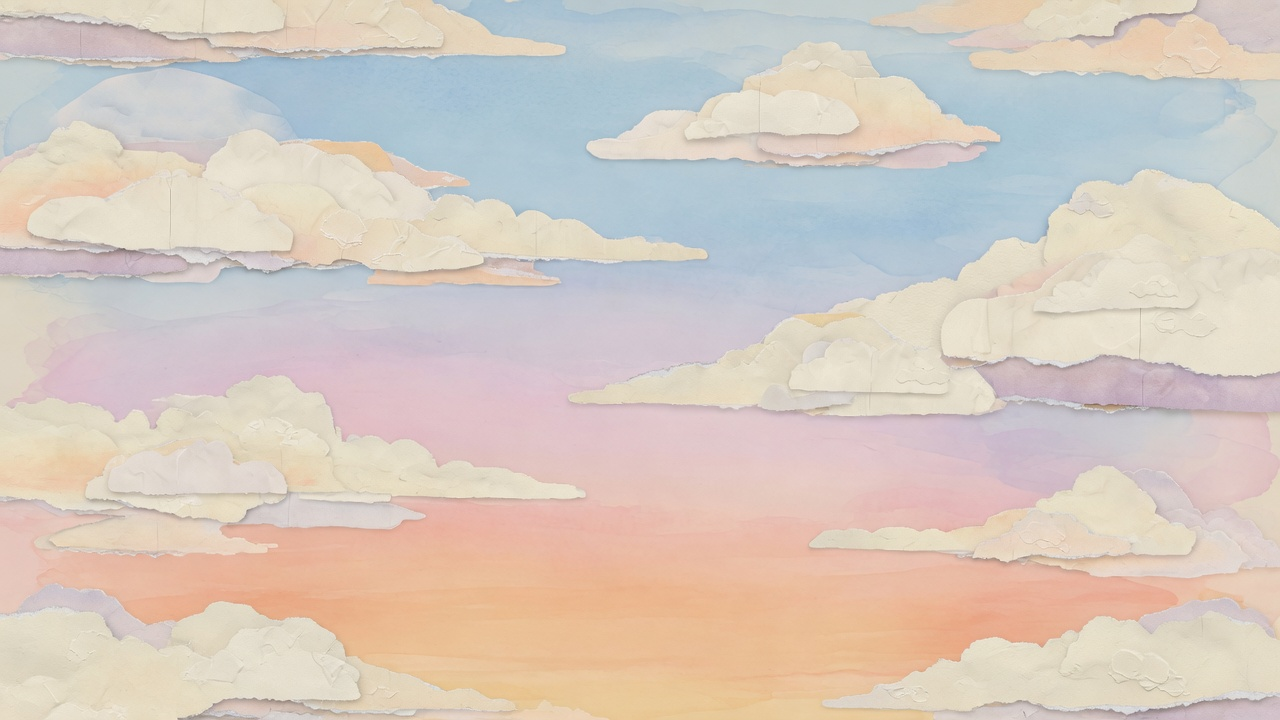
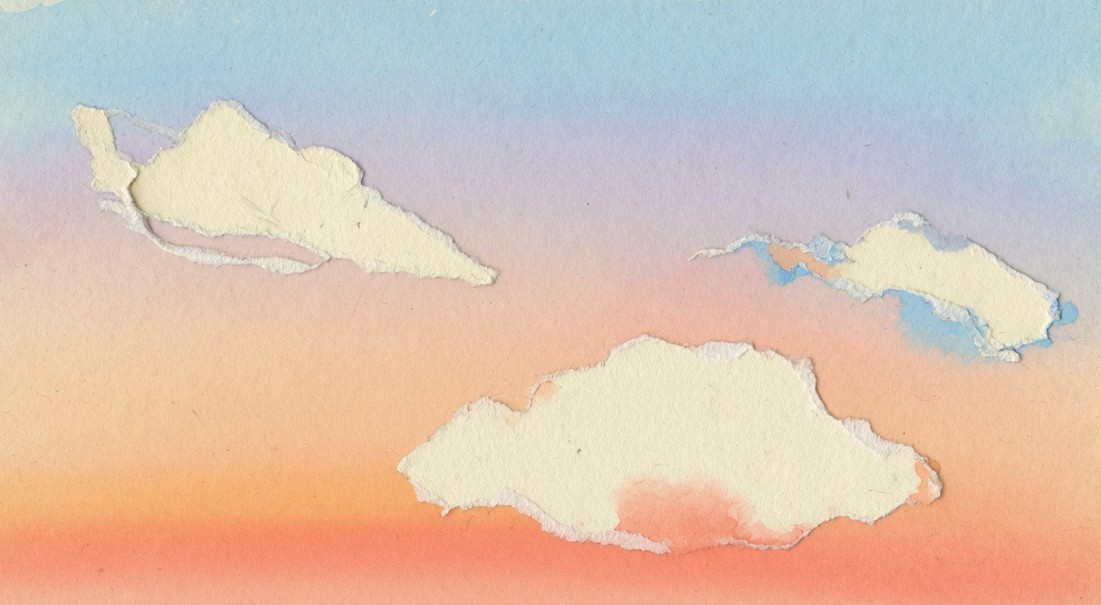
Polish city world, spacing scale, and opening flight flow
New tileable rooftops, facades, and a cropped sunrise sky. Menus and HUD share one spacing scale. The first 90m stays quieter and more spacious so the run can breathe before the city densifies.

diff --git a/src/style.css b/src/style.css
@@ -9,6 +9,17 @@
   --gold: #f0b429;
   --violet: #7357c9;
   --paper-shadow: rgba(61,44,41,.16);
+  --space-1: 4px;
+  --space-2: 8px;
+  --space-3: 12px;
+  --space-4: 16px;
+  --space-5: 20px;
+  --space-6: 24px;
+  --space-7: 32px;
+  --radius-sm: 12px;
+  --radius-md: 16px;
+  --radius-lg: 22px;
+  --radius-xl: 28px;
 }
 
 html, body, #game-root {
@@ -90,8 +101,8 @@ html.a11y-reduced-motion #fever-fx.fever-active { animation: none !important; op
    These are DOM overlays on purpose: the playfield remains a single canvas,
    while crisp, readable state feedback stays independent of camera distance. */
 #flight-route {
-  position: absolute; top: max(118px, calc(env(safe-area-inset-top) + 106px)); left: 50%;
-  transform: translateX(-50%); z-index: 5; width: min(250px, 25vw);
+  position: absolute; top: max(76px, calc(env(safe-area-inset-top) + 64px)); left: 50%;
+  transform: translateX(-50%); z-index: 5; width: min(236px, 28vw);
   padding: 8px 12px 9px; border: 1.5px solid rgba(36,59,83,.16);
   border-radius: 14px; background: rgba(255,250,242,.86);
   box-shadow: 0 8px 22px rgba(36,59,83,.14), 0 1px 0 rgba(255,255,255,.7) inset;
@@ -145,10 +156,10 @@ html.a11y-reduced-motion .flight-route-track span { transition: none; }
 
 /* —— HUD —— */
 #hud {
-  position: absolute; top: max(10px, env(safe-area-inset-top));
-  left: max(10px, env(safe-area-inset-left));
-  right: max(56px, env(safe-area-inset-right));
-  display: flex; gap: 6px; flex-wrap: wrap;
+  position: absolute; top: max(12px, env(safe-area-inset-top));
+  left: max(12px, env(safe-area-inset-left));
+  right: max(60px, env(safe-area-inset-right));
+  display: flex; gap: var(--space-2); flex-wrap: wrap;
   pointer-events: none; z-index: 5;
 }
 .hud-card {
@@ -588,23 +599,23 @@ html.a11y-reduced-motion #tutorial-hint { animation: none !important; }
 .menu-panel { justify-content: safe center; }
 
 .menu-card {
-  width: min(420px, 100%);
-  background: rgba(255,250,242,.84);
-  border: 1.5px solid rgba(255,255,255,.65);
-  border-radius: 28px;
-  padding: 22px 18px 18px;
+  width: min(448px, 100%);
+  background: rgba(255,250,242,.88);
+  border: 1.5px solid rgba(255,255,255,.7);
+  border-radius: var(--radius-xl);
+  padding: var(--space-6) var(--space-5) var(--space-5);
   box-shadow:
     0 24px 60px rgba(61,44,41,.14),
     0 2px 0 rgba(255,255,255,.5) inset;
   backdrop-filter: blur(18px) saturate(1.15);
   -webkit-backdrop-filter: blur(18px) saturate(1.15);
 }
-.menu-hero { margin-bottom: 14px; }
+.menu-hero { margin-bottom: var(--space-4); }
 .menu-hero .logo {
-  width: min(118px, 30vw); height: auto; border-radius: 26px;
+  width: min(104px, 26vw); height: auto; border-radius: 24px;
   border: 3px solid rgba(255,255,255,.9);
   box-shadow: 0 16px 40px rgba(61,44,41,.18);
-  margin-bottom: 12px;
+  margin-bottom: var(--space-3);
 }
 .panel h1 {
   font-size: clamp(1.85rem, 6vw, 2.55rem); font-weight: 900;
@@ -619,14 +630,14 @@ html.a11y-reduced-motion #tutorial-hint { animation: none !important; }
 .menu-section {
   background: rgba(255,255,255,.45);
   border: 1px solid rgba(61,44,41,.06);
-  border-radius: 18px;
-  padding: 12px 12px 8px;
-  margin-bottom: 10px;
+  border-radius: var(--radius-md);
+  padding: var(--space-3) var(--space-3) var(--space-2);
+  margin-bottom: var(--space-3);
 }
 .menu-setup {
   display: grid;
   grid-template-columns: 1fr 1fr;
-  gap: 10px 14px;
+  gap: var(--space-3) var(--space-4);
   text-align: center;
 }
 @media (max-width: 420px) {
@@ -669,8 +680,8 @@ html.a11y-reduced-motion #tutorial-hint { animation: none !important; }
 
 .cta-main {
   width: 100%; font-family: inherit; font-weight: 900; font-size: 18px;
-  color: #fffaf2; border: none; border-radius: 18px; padding: 16px 20px;
-  cursor: pointer; margin: 6px 0 12px;
+  color: #fffaf2; border: none; border-radius: 18px; padding: 15px 20px;
+  cursor: pointer; margin: var(--space-2) 0 var(--space-3);
   background: linear-gradient(180deg, #f2a07a 0%, #e06b4a 55%, #d45a3c 100%);
   box-shadow: 0 12px 28px rgba(224,107,74,.38), 0 1px 0 rgba(255,255,255,.25) inset;
   transition: transform .12s ease, filter .12s ease;
@@ -680,8 +691,8 @@ html.a11y-reduced-motion #tutorial-hint { animation: none !important; }
 .cta-inline { width: auto; margin: 0; padding: 12px 20px; font-size: 15px; border-radius: 14px; }
 
 .menu-actions {
-  display: flex; flex-wrap: wrap; gap: 8px; justify-content: center;
-  margin-bottom: 8px;
+  display: flex; flex-wrap: wrap; gap: var(--space-2); justify-content: center;
+  margin-bottom: var(--space-2);
 }
 
 .engine-status {
@@ -732,7 +743,7 @@ html.a11y-reduced-motion #tutorial-hint { animation: none !important; }
 
 /* Hangar */
 .hangar { justify-content: flex-start; padding-top: max(12px, env(safe-area-inset-top)); }
-.hangar-card { max-height: none; display: flex; flex-direction: column; max-width: min(460px, 100%); }
+.hangar-card { max-height: none; display: flex; flex-direction: column; max-width: min(480px, 100%); }
 .hangar-top { flex-shrink: 0; }
 .hangar-wallet { margin-bottom: 10px; }
 .hangar-group-switch {

diff --git a/src/flight-engine.js b/src/flight-engine.js
@@ -359,7 +359,7 @@ function pulseFlightImpact(tone = 'route') {
 
 function updateFlightReadability(routeState = null) {
   const playing = state === 'playing'
-  flightRouteEl?.classList.toggle('hidden', !playing || bossActive)
+  flightRouteEl?.classList.toggle('hidden', !playing || bossActive || distance < 28)
   flightFocusEl?.classList.toggle('hidden', !playing)
   if (!playing) return
 
@@ -2383,8 +2383,9 @@ function spawnChunk(z) {
 
   if (!recovering) maybeSpawnGroundDecor(z)
 
+  const early = distance < 90
   for (const side of recovering ? [] : [-1, 1]) {
-    if (rng() < 0.82) {
+    if (rng() < (early ? 0.52 : 0.82)) {
       const w = 2.5 + rng() * 3.5
       const h = getFlyableBuildingHeight({
         requestedHeight: (5 + rng() * (8 + ramp * 8)) * cfg.buildingH,
@@ -2403,7 +2404,7 @@ function spawnChunk(z) {
     }
   }
 
-  const ht = recovering ? null : pickHazardType(zone)
+  const ht = recovering || early ? null : pickHazardType(zone)
   if (ht === 'building') {
     const w = 2 + rng() * 3
     const h = getFlyableBuildingHeight({

diff --git a/src/game/pacing.js b/src/game/pacing.js
@@ -88,8 +88,10 @@ export function getSafeSpawnX({
 export function getWaveSpacing({ difficultyId = 'normal', distance = 0, recovery = false } = {}) {
   const base = BASE_SPACING[difficultyId] || BASE_SPACING.normal
   if (recovery) return base + 12
-  const compression = Math.min(3, Math.max(0, Number(distance) || 0) / 350)
-  return Math.max(14, base - compression)
+  const meters = Math.max(0, Number(distance) || 0)
+  const opening = Math.max(0, 8 - meters / 16)
+  const compression = Math.min(3, meters / 350)
+  return Math.max(14, base + opening - compression)
 }
 
 export function createPacingWave({ index = 0, difficultyId = 'normal', afterBoss = false } = {}) {

diff --git a/test/pacing.test.js b/test/pacing.test.js
@@ -41,6 +41,11 @@ describe('existing flight pacing', () => {
     expect(recovery.spacing).toBeGreaterThan(normal.spacing)
   })
 
+  test('opens the first stretch with extra room then compresses', () => {
+    expect(getWaveSpacing({ difficultyId: 'normal', distance: 0 }))
+      .toBeGreaterThan(getWaveSpacing({ difficultyId: 'normal', distance: 200 }))
+  })
+
   test('difficulty compresses spacing coherently without unsafe overlap', () => {
     expect(getWaveSpacing({ difficultyId: 'easy' })).toBeGreaterThan(getWaveSpacing({ difficultyId: 'normal' }))
     expect(getWaveSpacing({ difficultyId: 'normal' })).toBeGreaterThan(getWaveSpacing({ difficultyId: 'hard' }))

diff --git a/src/zones.js b/src/zones.js
@@ -6,10 +6,10 @@ export const ZONES = [
     id: 'city',
     name: 'Paper City',
     from: 0,
-    fog: 0xb8d4e8,
-    hemiSky: 0xffe8d6,
-    hemiGround: 0x6f9abf,
-    exposure: 0.98,
+    fog: 0xc5dcf0,
+    hemiSky: 0xffefe0,
+    hemiGround: 0x7aa8c8,
+    exposure: 1.05,
     sky: '/assets/sky-city.jpg',
     ground: '/assets/ground-city.jpg',
     groundTint: 0xe9ddcf,
